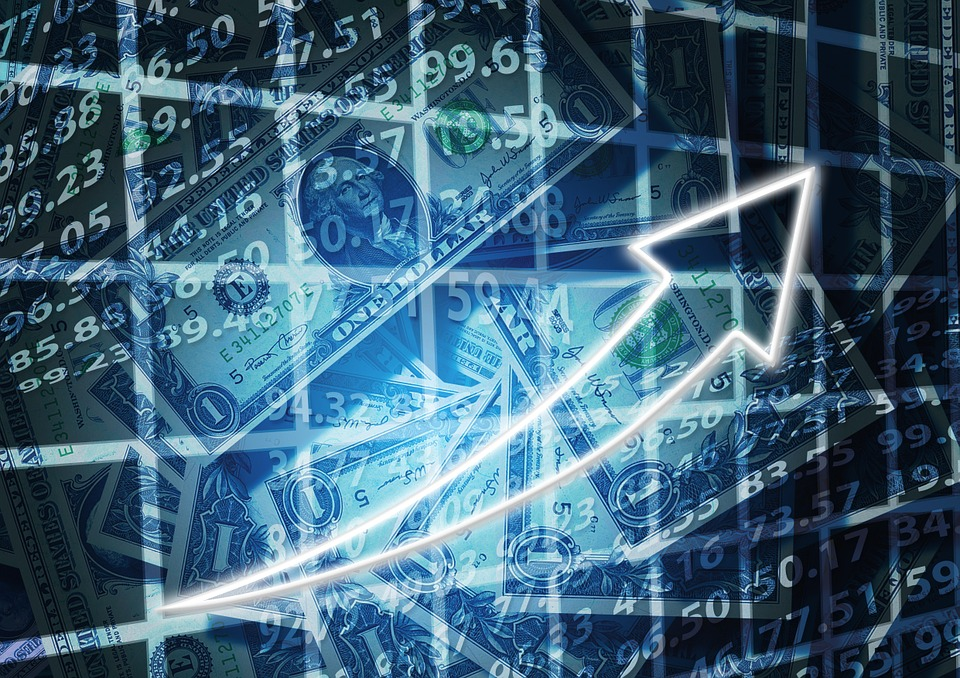
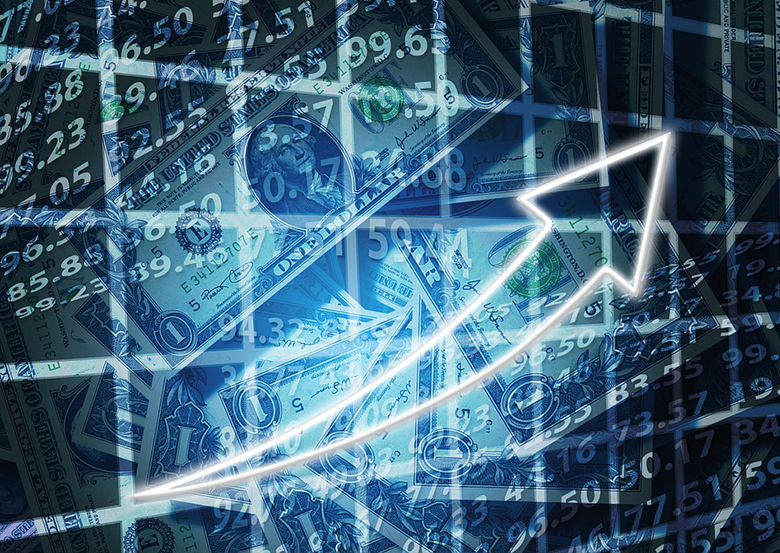
changes on plan

diff --git a/application/views/referred.php b/application/views/referred.php
@@ -20,8 +20,8 @@
 					<div class="col-md-4">
 						<aside>
 							<div class="list-group">
-                                                            <a href="<?php echo site_url().'plan';?>" class="list-group-item active disabled"><?php echo replace_vocales_voculeshtml("Rentabilidad por Inversión");?></a>
-								<a href="<?php echo site_url().'referred';?>"  class="list-group-item"><?php echo replace_vocales_voculeshtml("Bono por Referidos");?></a>
+                                                            <a href="<?php echo site_url().'plan';?>" class="list-group-item"><?php echo replace_vocales_voculeshtml("Rentabilidad por Inversión");?></a>
+								<a href="<?php echo site_url().'referred';?>"  class="list-group-item active disabled"><?php echo replace_vocales_voculeshtml("Bono por Referidos");?></a>
 								<a href="<?php echo site_url().'binary';?>"  class="list-group-item"><?php echo replace_vocales_voculeshtml("Bono Binario");?></a>
 								<a href="<?php echo site_url().'bets';?>"  class="list-group-item"><?php echo replace_vocales_voculeshtml("Apuestas en Vivo");?></a>
 							</div>
@@ -44,33 +44,32 @@
 						<div class="service-right-content">
 							<div class="service-first">
 								<div class="img-box">
-                                                                    <img src="<?php echo site_url().'static/page_front/images/plan/profit.jpg';?>" alt=""/>
+                                                                    <img src="<?php echo site_url().'static/page_front/images/plan/refer.jpg';?>" alt=""/>
 								</div>
-                                                            <h2><?php echo replace_vocales_voculeshtml("Rentabilidad por Inversión")?></h2>
-								<p>Todos los paquetes de inversión tienen un contrato de 75 días (2 meses y medio). Los pagos se procesan desde la segunda semana de la fecha de activación debido a que la primera semana se comienza a hacer el trading acorde a su paquete. La rentabilidad se procesa de lunes a domingo.Tenemos 5 paquetes de inversión:</p>
+                                                            <h2><?php echo replace_vocales_voculeshtml("Bono por Referido Directo")?></h2>
+                                                            <p><?php echo replace_vocales_voculeshtml("Ganas el 15% de todos los referidos directos que ingresan a la empresa gracias a tu recomendación. Puedes tener todos los referidos por directos que desees en todo el periodo de vigencia de tu contrato.");?></p>
                                                                 <div class="height-50"></div>
                                                                 <ul>
                                                                     <li>
-                                                                            <i class="fa fa-star" aria-hidden="true"></i>BEGINNER ($50) ganas el 15% en 75 días (2 meses y medio).
+                                                                            <i class="fa fa-star" aria-hidden="true"></i>Por un paquete BEGINNER ganas $7.5.
                                                                     </li>
                                                                     <li>
-                                                                            <i class="fa fa-star" aria-hidden="true"></i>START ($100)  ganas el 20% en 75 días (2 meses y medio).
+                                                                            <i class="fa fa-star" aria-hidden="true"></i>Por un paquete START ganas $15.
                                                                     </li>
                                                                     <li>
-                                                                            <i class="fa fa-star" aria-hidden="true"></i>GENERAL ($300) ganas el 25% en 75 días (2 meses y medio).
+                                                                            <i class="fa fa-star" aria-hidden="true"></i>Por un paquete GENERAL ganas $45.
                                                                     </li>
                                                                     <li>
-                                                                            <i class="fa fa-star" aria-hidden="true"></i>VIP ($500) ganas el 30% en 75 días (2 meses y medio).
+                                                                            <i class="fa fa-star" aria-hidden="true"></i>Por un paquete VIP ganas $75.
                                                                     </li>
                                                                     <li>
-                                                                            <i class="fa fa-star" aria-hidden="true"></i>PREMIUN ($1000) ganas hasta el 35% en 75 días (2 meses y medio).
+                                                                            <i class="fa fa-star" aria-hidden="true"></i>Por un paquete PREMIUN ganas $150.
                                                                     </li>
                                                                     <li>
-                                                                            <i class="fa fa-star" aria-hidden="true"></i>MASTER ($5000) ganas hasta el 40% en 75 días (2 meses y medio).
+                                                                            <i class="fa fa-star" aria-hidden="true"></i>Por un paquete MASTER ganas $750.
                                                                     </li>
                                                                 </ul>
                                                                 <div class="height-50"></div>
-                                                                <p>Dependiendo de tu inversión también es tu rentabilidad. Puedes comprar todos los centros de negocio o paquetes que desees, cada uno de ellos es autónomo e independiente. Al finalizar tu contrato tienes la opción de renovar pagando el 100% del costo del paquete.</p>
 							</div>
 						</div>
 					</div>

diff --git a/application/views/bets.php b/application/views/bets.php
@@ -1,0 +1,80 @@
+<!DOCTYPE html>
+<html lang="en">
+	<?php $this->load->view("head");?>
+	<body>
+            <!--START NAV-->
+		<?php $this->load->view("nav");?>
+            <!--END START NAV-->
+		<section class="contact_header top">
+			<div class="container">
+				<div class="row">
+					<div class="col-md-12">
+                                            <h2><?php echo replace_vocales_voculeshtml("Plan de Inversión");?></h2>
+					</div>
+				</div>
+			</div>
+		</section>
+		<section class="service1-section">
+			<div class="container">
+				<div class="row">
+					<div class="col-md-4">
+						<aside>
+							<div class="list-group">
+                                                            <a href="<?php echo site_url().'plan';?>" class="list-group-item"><?php echo replace_vocales_voculeshtml("Rentabilidad por Inversión");?></a>
+								<a href="<?php echo site_url().'referred';?>"  class="list-group-item"><?php echo replace_vocales_voculeshtml("Bono por Referidos");?></a>
+								<a href="<?php echo site_url().'binary';?>"  class="list-group-item"><?php echo replace_vocales_voculeshtml("Bono Binario");?></a>
+								<a href="<?php echo site_url().'bets';?>"  class="list-group-item active disabled"><?php echo replace_vocales_voculeshtml("Apuestas en Vivo");?></a>
+							</div>
+
+							<div class="brochures-download">
+                                                            <h3><?php echo replace_vocales_voculeshtml("Descargar Plan de Compensación");?></h3>
+								<div class="list-group">
+									<a href="#"  class="list-group-item download-pdf"><i class="fa fa-file-pdf-o" aria-hidden="true"></i>Plan de Pagos CW</a>
+								</div>
+							</div>
+
+							<div class="request-quote">
+								<h4><?php echo replace_vocales_voculeshtml("Obtén un Paquete");?></h4>
+                                                                <p><?php echo replace_vocales_voculeshtml("Obtenga orientación profesional para crear y administrar su negocio.");?></p>
+                                                                <a class="btn btn-default hvr-bounce-to-right" href="<?php echo site_url().'contact';?>" role="button"><?php echo replace_vocales_voculeshtml("Contáctenos");?></a>
+							</div>
+						</aside>
+					</div>
+					<div class="col-md-8">
+						<div class="service-right-content">
+							<div class="service-first">
+								<div class="img-box">
+                                                                    <img src="<?php echo site_url().'static/page_front/images/plan/bets.jpg';?>" alt=""/>
+								</div>
+                                                            <h2><?php echo replace_vocales_voculeshtml("Rentabilidad por Inversión")?></h2>
+								<p>Cada semana los traders de CRIPTOWIN hacen operaciones en vivo en el mercado bursátil, tendrás la oportunidad de apostar 2 veces por semana como mínimo y ganar porcentajes de cada operación que se realice al día, las apuestas son independiente al negocio de CRIPTOWIN y con la información del mercado que será entregado por los traders a los asociados tendrán mayor probabilidad de ganar.La mínima inversión para las apuestas son de $1 y no hay tope para la máxima cantidad.</p>
+                                                                <!--<div class="height-50"></div>-->
+							</div>
+						</div>
+					</div>
+				</div>
+			</div>
+
+		</section>
+		<!-- last section -->
+		<section class="get-quote">
+			<div class="container">
+				<div class="row">
+					<div class="col-lg-9">
+						<h3>En CRIPTOWIN siempre hacemos la diferencia.</h3>
+						<p>
+							<?php echo replace_vocales_voculeshtml("No te pierdas esta gran oportunidad y sé parte de los pioneros que se suman a cambiar la vida de miles de personas.");?>
+						</p>
+					</div>
+					<div class="col-lg-3">
+                                            <a class="btn btn-default hvr-bounce-to-right-reverse" href="<?php echo site_url().'register'?>" data-text="read-more"><?php echo replace_vocales_voculeshtml("Obtén un Paquete");?></a>
+					</div>
+				</div>
+			</div>
+
+		</section>
+		<!-- FOOTER SECTION -->
+               <?php $this->load->view("footer");?>
+		<!--END FOOTER SECTION-->
+	</body>
+</html>

diff --git a/application/views/binary.php b/application/views/binary.php
@@ -1,0 +1,81 @@
+<!DOCTYPE html>
+<html lang="en">
+	<?php $this->load->view("head");?>
+	<body>
+            <!--START NAV-->
+		<?php $this->load->view("nav");?>
+            <!--END START NAV-->
+		<section class="contact_header top">
+			<div class="container">
+				<div class="row">
+					<div class="col-md-12">
+                                            <h2><?php echo replace_vocales_voculeshtml("Plan de Inversión");?></h2>
+					</div>
+				</div>
+			</div>
+		</section>
+		<section class="service1-section">
+			<div class="container">
+				<div class="row">
+					<div class="col-md-4">
+						<aside>
+							<div class="list-group">
+                                                            <a href="<?php echo site_url().'plan';?>" class="list-group-item"><?php echo replace_vocales_voculeshtml("Rentabilidad por Inversión");?></a>
+								<a href="<?php echo site_url().'referred';?>"  class="list-group-item"><?php echo replace_vocales_voculeshtml("Bono por Referidos");?></a>
+								<a href="<?php echo site_url().'binary';?>"  class="list-group-item active disabled"><?php echo replace_vocales_voculeshtml("Bono Binario");?></a>
+								<a href="<?php echo site_url().'bets';?>"  class="list-group-item"><?php echo replace_vocales_voculeshtml("Apuestas en Vivo");?></a>
+							</div>
+
+							<div class="brochures-download">
+                                                            <h3><?php echo replace_vocales_voculeshtml("Descargar Plan de Compensación");?></h3>
+								<div class="list-group">
+									<a href="#"  class="list-group-item download-pdf"><i class="fa fa-file-pdf-o" aria-hidden="true"></i>Plan de Pagos CW</a>
+								</div>
+							</div>
+
+							<div class="request-quote">
+								<h4><?php echo replace_vocales_voculeshtml("Obtén un Paquete");?></h4>
+                                                                <p><?php echo replace_vocales_voculeshtml("Obtenga orientación profesional para crear y administrar su negocio.");?></p>
+                                                                <a class="btn btn-default hvr-bounce-to-right" href="<?php echo site_url().'contact';?>" role="button"><?php echo replace_vocales_voculeshtml("Contáctenos");?></a>
+							</div>
+						</aside>
+					</div>
+					<div class="col-md-8">
+						<div class="service-right-content">
+							<div class="service-first">
+								<div class="img-box">
+                                                                    <img src="<?php echo site_url().'static/page_front/images/plan/binary.jpg';?>" alt=""/>
+								</div>
+                                                            <h2><?php echo replace_vocales_voculeshtml("Bono Binario")?></h2>
+								<p>Ganas el 12% de la pierna menor hasta una profundidad hasta el infinito, condición calificar el binario con 2 directos en ambos lados de la misma cuenta. No hay tipe límite de ganancia.</p>
+                                                                <div class="height-50"></div>
+                                                                
+							</div>
+						</div>
+					</div>
+				</div>
+			</div>
+
+		</section>
+		<!-- last section -->
+		<section class="get-quote">
+			<div class="container">
+				<div class="row">
+					<div class="col-lg-9">
+						<h3>En CRIPTOWIN siempre hacemos la diferencia.</h3>
+						<p>
+							<?php echo replace_vocales_voculeshtml("No te pierdas esta gran oportunidad y sé parte de los pioneros que se suman a cambiar la vida de miles de personas.");?>
+						</p>
+					</div>
+					<div class="col-lg-3">
+                                            <a class="btn btn-default hvr-bounce-to-right-reverse" href="<?php echo site_url().'register'?>" data-text="read-more"><?php echo replace_vocales_voculeshtml("Obtén un Paquete");?></a>
+					</div>
+				</div>
+			</div>
+
+		</section>
+		<!-- FOOTER SECTION -->
+               <?php $this->load->view("footer");?>
+		<!--END FOOTER SECTION-->
+	</body>
+</html>

diff --git a/application/views/footer.php b/application/views/footer.php
@@ -6,7 +6,7 @@
                                                 <p><?php echo replace_vocales_voculeshtml("Grupo de analistas de la reconocida firma Empire Capital Holdings;");?></p>
 						<ul>
 							<li>
-								<a href="" ><i class="fa fa-facebook" aria-hidden="true"></i></a>
+								<a href=""><i class="fa fa-facebook" aria-hidden="true"></i></a>
 							</li>
 							</li>
 							<li>
@@ -20,16 +20,16 @@
 					<div class="col-md-3 services">
                                             <h3 style="font-size: 16px !important;">Nuestros Servicios</h3>
 						<ul>
-                                                    <li><a href="#"><?php echo replace_vocales_voculeshtml("Rentabilidad de Inversión");?></a></li>
+                                                    <li><a href="<?php echo site_url().'referred';?>"><?php echo replace_vocales_voculeshtml("Rentabilidad de Inversión");?></a></li>
 						</ul>
 						<ul>
-                                                    <li><a href="#">Apuestas en Vivo</a></li>
+                                                    <li><a href="<?php echo site_url().'bets';?>">Apuestas en Vivo</a></li>
 						</ul>
                                                 <ul>
-                                                    <li><a href="#">+200 Instrumentos</a></li>
+                                                    <li><a>+200 Instrumentos</a></li>
 						</ul>
                                                 <ul>
-                                                    <li><a href="#"><?php echo replace_vocales_voculeshtml("Análisis de Mercado");?></a></li>
+                                                    <li><a><?php echo replace_vocales_voculeshtml("Análisis de Mercado");?></a></li>
 						</ul>
 					</div>
 					<div class="col-md-3 news">
@@ -83,7 +83,6 @@
     <script src="<?php echo site_url().'static/page_front/js/wow.min.js';?>"></script>
     <script src="<?php echo site_url().'static/page_front/js/jquery.countTo.js';?>"></script>
     <script src="<?php echo site_url().'static/page_front/js/owl.carousel.min.js';?>"></script>
-    <script src="https://maps.googleapis.com/maps/api/js"></script>
     <script src="http://cdnjs.cloudflare.com/ajax/libs/gmaps.js/0.4.24/gmaps.min.js"></script>
     <script src="<?php echo site_url().'static/page_front/js/map-helper.js';?>"></script>
     <script src="<?php echo site_url().'static/page_front/js/jquery.mixitup.min.js';?>"></script>

diff --git a/application/controllers/plan.php b/application/controllers/plan.php
@@ -20,6 +20,28 @@ class Plan extends CI_Controller {
 	 */
 	public function index()
 	{
-		$this->load->view('plan');
+        //  GET LINK URL
+        $url = explode("/", uri_string());
+            if (isset($url[0])) {
+                $plan = $url[0];
+
+                switch ($plan) {
+                    case "plan":
+                        $this->load->view('plan');
+                        break;
+                    case "binary":
+                        $this->load->view('binary');
+                        break;
+                    case "referred":
+                        $this->load->view('referred');
+                        break;
+                    case "bets":
+                        $this->load->view('bets');
+                        break;
+                }
+
+                //Select params
+            }
+//		$this->load->view('plan');
 	}
 }

diff --git a/application/config/routes.php b/application/config/routes.php
@@ -48,6 +48,10 @@ $route['backoffice'] = "b_home";
 $route['logout'] = "b_home/logout";
 $route['backoffice/misdatos'] = "b_data";
 
+$route['referred'] = "plan";
+$route['binary'] = "plan";
+$route['bets'] = "plan";
+
 $route['dashboard'] = "dashboard";
 $route['dashboard/panel'] = "panel";
 $route['dashboard/panel/guardar_btc'] = "panel/guardar_btc";
